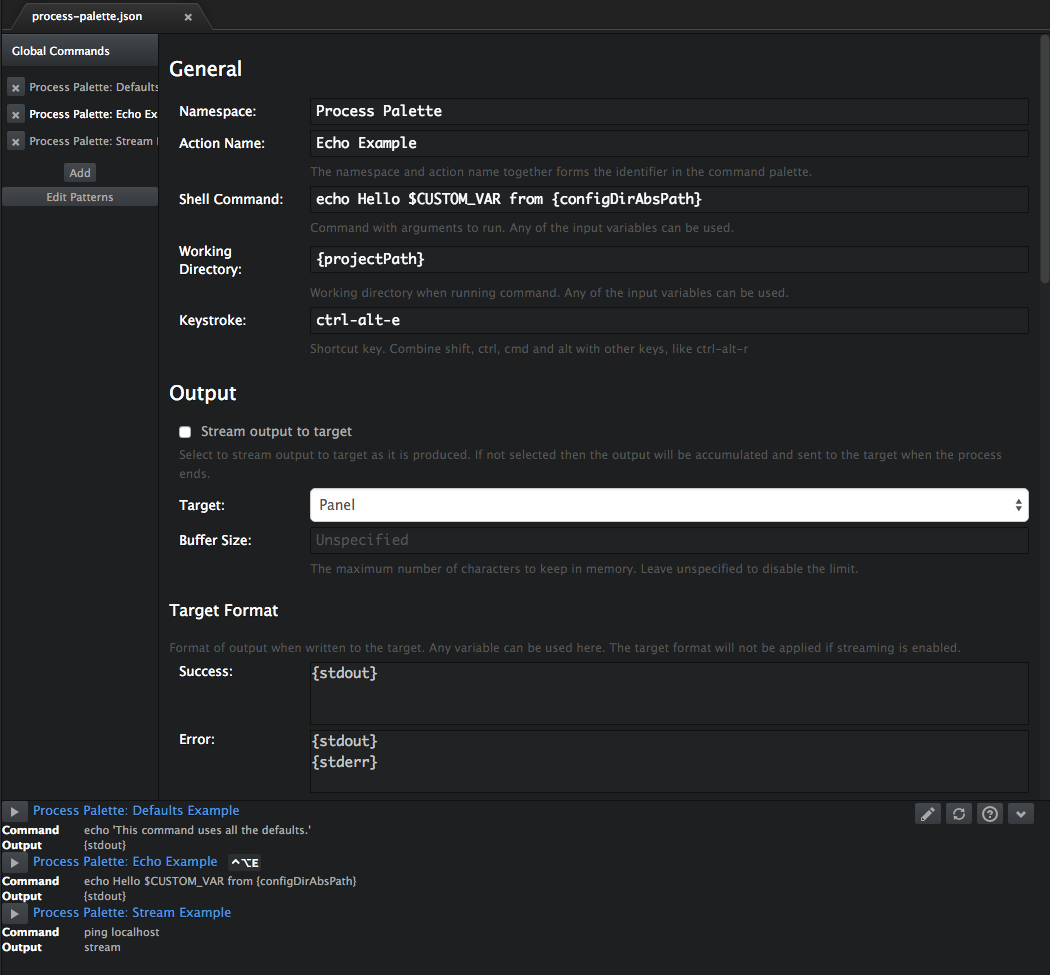
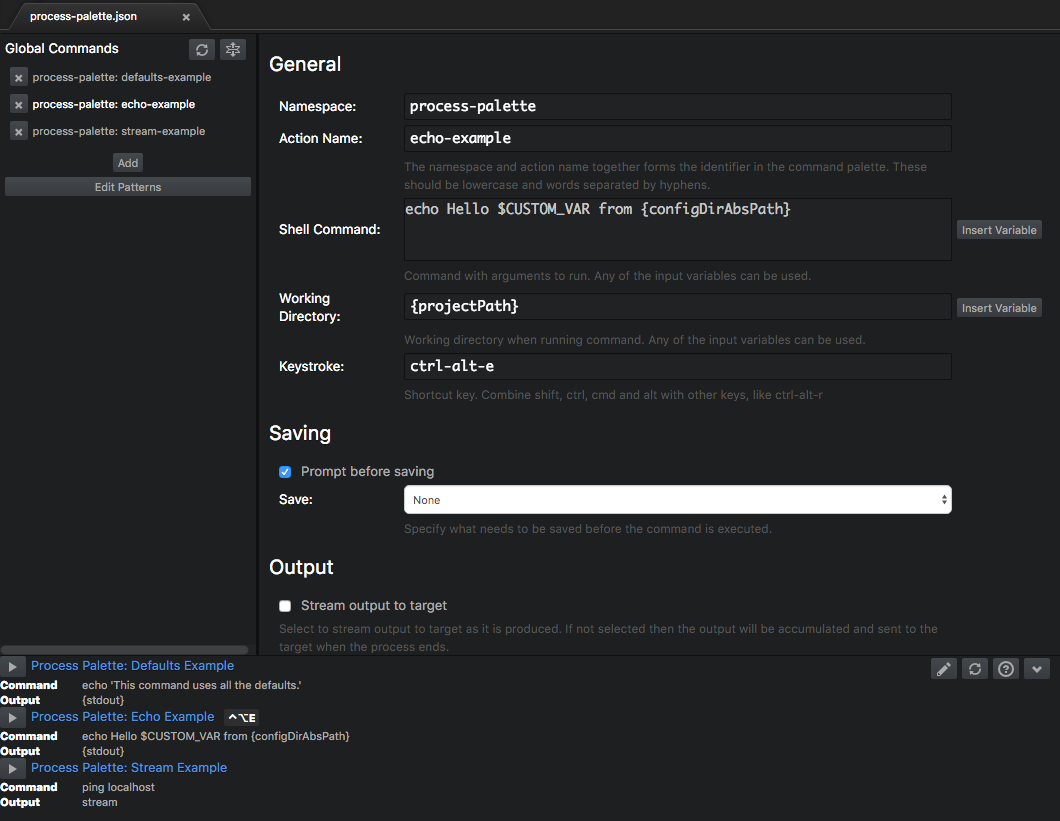
Changed code and example to use proper formatting for actions.

diff --git a/README.md b/README.md
@@ -174,8 +174,8 @@ Many of the properties can be parameterized with variables from the environment.
 ### Properties
 Property|Description|Default
 ---|---|---
-namespace|The namespace under which the command is categorized. This forms part of its identity in the Command Palette.|"Process Palette"
-action (required)|The name of the action. This, together with the namespace, gives the command a unique identifier in the Command Palette.|null
+namespace|The namespace under which the command is categorized. This forms part of its identity in the Command Palette. It should be lowercase and words separated by hyphens. |"process-palette"
+action (required)|The name of the action. This, together with the namespace, gives the command a unique identifier in the Command Palette.  It should be lowercase and words separated by hyphens.|null
 command (required)|A string with the name and arguments of the command to execute.|null
 arguments|An array of strings to pass as arguments to the command. Since v0.4.10 arguments can be added directly to the `command` property's value, however this approach can still be used.|[ ]
 cwd|The working directory from which to execute the command. It doesn't have a default value, but one is automatically determined when the command is executed. If projects are open then the first project's folder is used. If there aren't any projects open then the folder of the `process-palette.json` file is used.|null

diff --git a/CHANGELOG.md b/CHANGELOG.md
@@ -1,5 +1,6 @@
 ## v0.9.1 (16 October 2016)
 - Added ability to globally specify shell.
+- Changed code and example to use proper formatting for actions.
 
 ## v0.9.0 (26 August 2016)
 - Added `word` and `line` variables.
